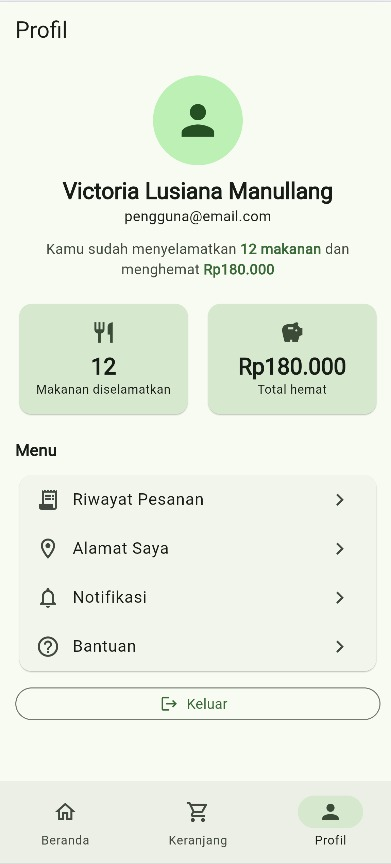
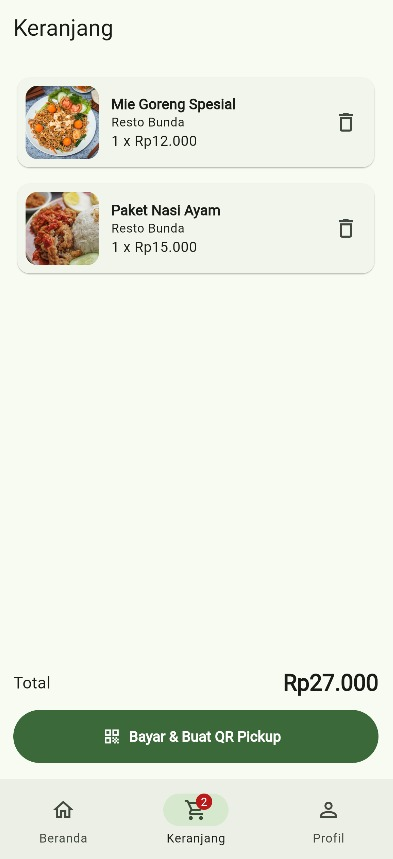
Complete screen breakdown details in README.md including Profile screen

diff --git a/README.md b/README.md
@@ -24,30 +24,30 @@ Aplikasi mobile untuk mengurangi pemborosan makanan dengan menghubungkan bisnis 
 - `Badge` + `ListenableBuilder` menampilkan jumlah item di ikon Keranjang
 
 ### 1. Beranda
-<img src="screenshots/home.png" width="250" alt="Beranda">
+<img src="screenshots/home.png" width="180" alt="Beranda">
 
 - `CustomScrollView` + `SliverGrid` untuk grid produk responsif
 - `SearchBar`, `ChoiceChip` + `Wrap` untuk pencarian dan filter kategori
 - `Card` untuk banner dampak SDG 12 dan kartu produk
 
 ### 2. Detail Produk
-<img src="screenshots/detail.png" width="250" alt="Detail Produk">
+<img src="screenshots/detail.png" width="180" alt="Detail Produk">
 
 - `ListView` + `AspectRatio`, `Chip`, `IconButton.outlined`, `Divider`
 - `ConstrainedBox` membatasi lebar konten di layar besar
 
 ### 3. Keranjang / Checkout
-<img src="screenshots/cart.png" width="250" alt="Keranjang">
+<img src="screenshots/cart.png" width="180" alt="Keranjang">
 
 - `ListenableBuilder`, `ListView.separated`, `Card` + `Row`/`Column`
 
 ### 4. QR Code / Bukti Pickup
-<img src="screenshots/qr.png" width="250" alt="QR Pickup">
+<img src="screenshots/qr.png" width="180" alt="QR Pickup">
 
 - `QrImageView` (package `qr_flutter`), `Card`, `SingleChildScrollView`
 
 ### 5. Profil Pengguna
-<img src="screenshots/profile.png" width="250" alt="Profil">
+<img src="screenshots/profile.png" width="180" alt="Profil">
 
 - `CircleAvatar`, `StatTile` (widget buatan sendiri), `ListTile`, `OutlinedButton`
 - `RichText` untuk kalimat ringkasan dengan gaya teks campuran
